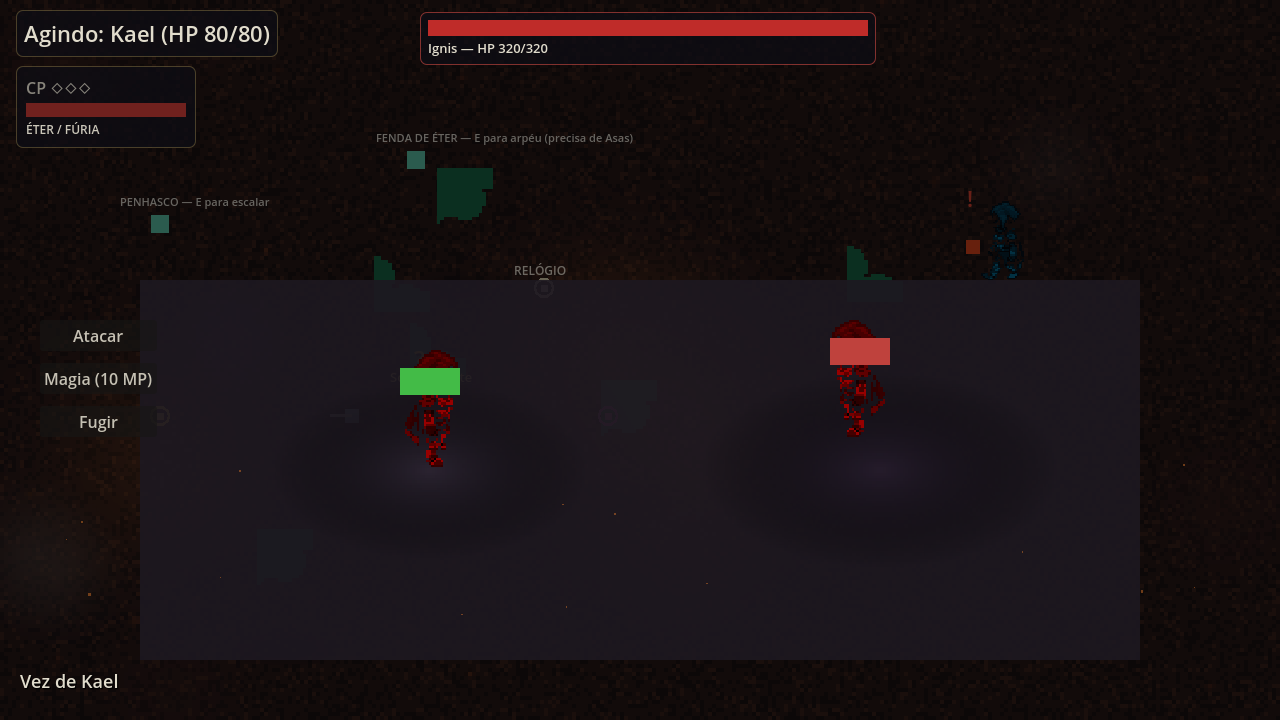
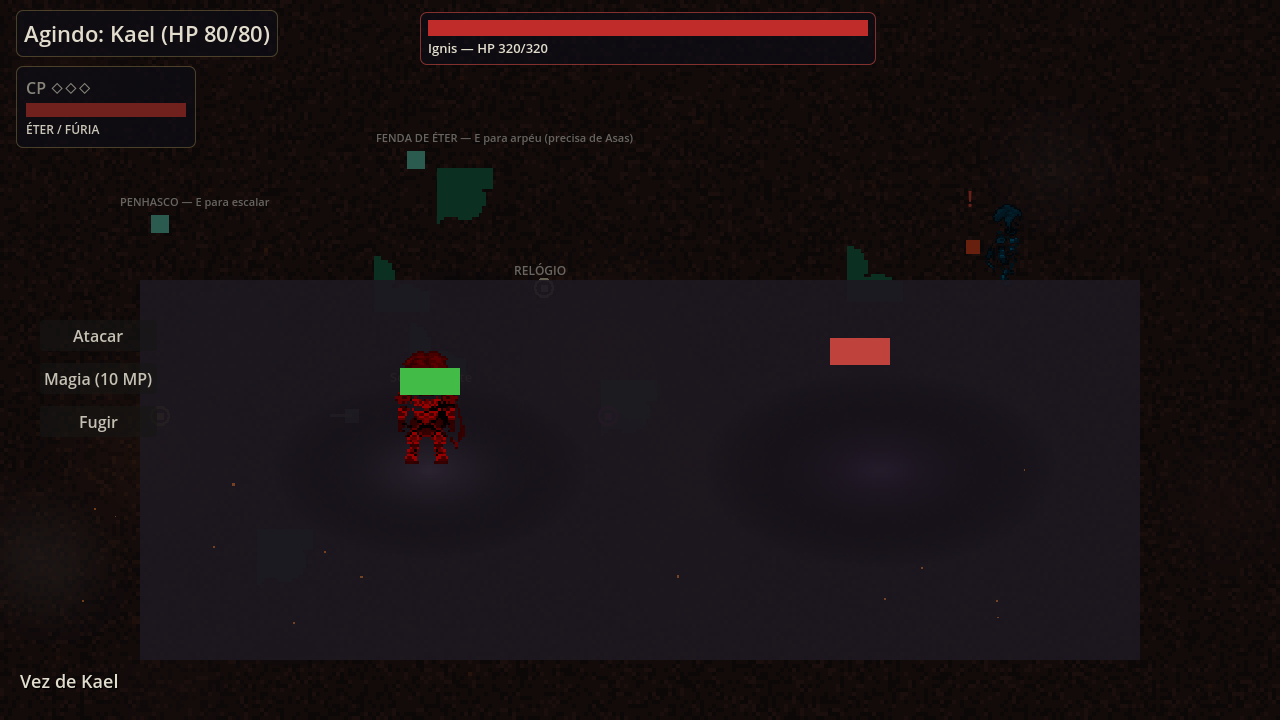
feat(sos-enemies): inimigos SoS na arena + fixes do QA visual - 8 mapeamentos inimigo->char SoS (mercenario=StrifeMinion, cacador=Owlsassin, esqueleto=BilePile, mago=Keymouseter, inquisidor/paladino=Acolytes, orc_chefe=BoulderDouche, troll=BoulderGoat), 136 frames copiados + chroma-key; _arena_posit

Changed region(s): [[0.6562, 0.4278, 0.6875, 0.6111], [0.3125, 0.55, 0.375, 0.6417], [0.3125, 0.4889, 0.375, 0.5194]]

diff --git a/tools/sos_copy_enemies.py b/tools/sos_copy_enemies.py
@@ -1,0 +1,52 @@
+import csv
+import re
+import os
+import shutil
+from collections import defaultdict
+
+csv_path = r"C:\Users\Administrator\Downloads\test\assets_extraidos\indice_assets.csv"
+sprites_root = r"C:\Users\Administrator\Downloads\test\assets_extraidos\sprites"
+base_dest = os.path.join("assets", "sos")
+
+# Mapeamento inimigo do jogo -> personagem SoS com Idle/Walk.
+ENEMY_CHARS = {
+    "mercenario": "StrifeMinion",
+    "cacador": "Owlsassin",
+    "esqueleto": "BilePile",
+    "mago": "Keymouseter",
+    "inquisidor": "Acolyte1",
+    "paladino": "Acolyte4",
+    "orc_chefe": "BoulderDouche",
+    "troll": "BoulderGoat",
+}
+
+with open(csv_path, encoding="utf-8-sig", errors="replace") as f:
+    rows = list(csv.reader(f, delimiter=";"))[1:]
+
+# Indexa: char -> {nome arquivo}
+available = defaultdict(dict)
+for row in rows:
+    m = re.match(r"^(\w+?)_(Idle|Walk)_D(\d)_F(\d+)$", row[1])
+    if m:
+        available[m.group(1)][row[1]] = row
+
+copied = 0
+for game_type, sos_char in ENEMY_CHARS.items():
+    files = available.get(sos_char, {})
+    if not files:
+        print(f"AVISO: {sos_char} sem frames")
+        continue
+    dest_root = os.path.join(base_dest, sos_char)
+    for name, row in files.items():
+        src = None
+        for dirpath, _, fs in os.walk(sprites_root):
+            if name + ".png" in fs:
+                src = os.path.join(dirpath, name + ".png")
+                break
+        if src is None:
+            continue
+        dest = os.path.join(dest_root, name + ".png")
+        os.makedirs(os.path.dirname(dest), exist_ok=True)
+        shutil.copy2(src, dest)
+        copied += 1
+print("copiados:", copied)

diff --git a/tools/sos_key_all.py b/tools/sos_key_all.py
@@ -1,0 +1,47 @@
+"""Chroma-key de fundo preto em TODOS os frames SoS (recursivo em assets/sos)."""
+import os
+from collections import deque
+from PIL import Image
+
+BASE = os.path.join("assets", "sos")
+
+
+def key_black_borders(path: str) -> None:
+    img = Image.open(path).convert("RGBA")
+    w, h = img.size
+    px = img.load()
+    seen = set()
+    q = deque()
+    for x in range(w):
+        q.append((x, 0))
+        q.append((x, h - 1))
+    for y in range(h):
+        q.append((0, y))
+        q.append((w - 1, y))
+    removed = 0
+    while q:
+        x, y = q.popleft()
+        if (x, y) in seen or x < 0 or y < 0 or x >= w or y >= h:
+            continue
+        seen.add((x, y))
+        r, g, b, a = px[x, y]
+        if not (r < 18 and g < 18 and b < 18 and a > 200):
+            continue
+        px[x, y] = (0, 0, 0, 0)
+        removed += 1
+        q.extend(((x + 1, y), (x - 1, y), (x, y + 1), (x, y - 1)))
+    img.save(path)
+
+
+def main() -> None:
+    count = 0
+    for dirpath, _, files in os.walk(BASE):
+        for f in files:
+            if f.endswith(".png") and not f.endswith(".import"):
+                key_black_borders(os.path.join(dirpath, f))
+                count += 1
+    print("frames processados:", count)
+
+
+if __name__ == "__main__":
+    main()
